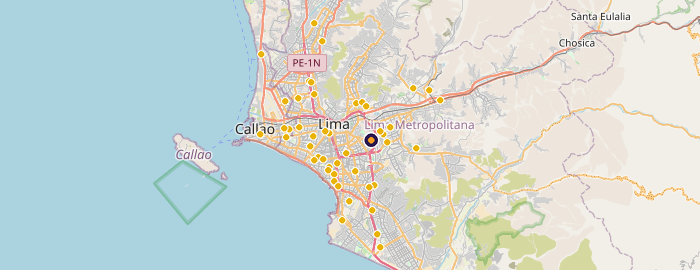
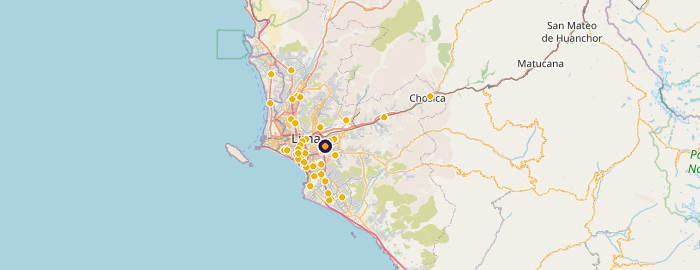
chore: actualizar reporte HTML y mapas del Dashboard

diff --git a/reports/dashboard_email.html b/reports/dashboard_email.html
@@ -15,7 +15,7 @@
                   <td>
                     <div style="font-size:11px; letter-spacing:1px; text-transform:uppercase; color:#f89b22; font-weight:700;">RoadMap &bull; Dashboard Operativo</div>
                     <h1 style="margin:4px 0 2px; font-size:22px; color:#ffffff;">Resumen Diario de Distribución &ndash; Región Lima</h1>
-                    <div style="font-size:12px; color:#d4d4d8;">Fecha operativa: <b>24/11/2026</b> &bull; Consolidado Global y Despliegue por CD</div>
+                    <div style="font-size:12px; color:#d4d4d8;">Fecha operativa: <b>25/11/2026</b> &bull; Consolidado Global y Despliegue por CD</div>
                   </td>
                   <td align="right" valign="middle">
                     <a href="https://sigmaperu.github.io/RoadMap/dashboard.html" style="background-color:#c61c27; color:#ffffff; text-decoration:none; padding:10px 16px; border-radius:8px; font-size:12px; font-weight:700; display:inline-block;">Abrir Dashboard</a>
@@ -34,25 +34,25 @@
                 <tr>
                   <td width="24%" style="background:#faf9fc; border:1px solid #e4e4e7; border-top:3px solid #28174E; border-radius:8px; padding:10px;">
                     <div style="font-size:10.5px; color:#71717a; font-weight:700;">TONELAJE TOTAL</div>
-                    <div style="font-size:19px; font-weight:800; color:#18181b;">64.43 T</div>
-                    <div style="font-size:11px; color:#52525b;">64,433 kg planificados</div>
+                    <div style="font-size:19px; font-weight:800; color:#18181b;">81.08 T</div>
+                    <div style="font-size:11px; color:#52525b;">81,078 kg planificados</div>
                   </td>
                   <td width="1.3%"></td>
                   <td width="24%" style="background:#faf9fc; border:1px solid #e4e4e7; border-top:3px solid #c61c27; border-radius:8px; padding:10px;">
                     <div style="font-size:10.5px; color:#71717a; font-weight:700;">VALORIZACIÓN</div>
-                    <div style="font-size:19px; font-weight:800; color:#c61c27;">S/ 1,563,304</div>
-                    <div style="font-size:11px; color:#52525b;">Ticket Prom: S/ 1,247</div>
+                    <div style="font-size:19px; font-weight:800; color:#c61c27;">S/ 1,998,947</div>
+                    <div style="font-size:11px; color:#52525b;">Ticket Prom: S/ 1,321</div>
                   </td>
                   <td width="1.3%"></td>
                   <td width="24%" style="background:#faf9fc; border:1px solid #e4e4e7; border-top:3px solid #f89b22; border-radius:8px; padding:10px;">
                     <div style="font-size:10.5px; color:#71717a; font-weight:700;">COBERTURA</div>
-                    <div style="font-size:19px; font-weight:800; color:#18181b;">1254 cli.</div>
-                    <div style="font-size:11px; color:#52525b;">1540 pedidos totales</div>
+                    <div style="font-size:19px; font-weight:800; color:#18181b;">1513 cli.</div>
+                    <div style="font-size:11px; color:#52525b;">1845 pedidos totales</div>
                   </td>
                   <td width="1.3%"></td>
                   <td width="24%" style="background:#faf9fc; border:1px solid #e4e4e7; border-top:3px solid #8e24aa; border-radius:8px; padding:10px;">
                     <div style="font-size:10.5px; color:#71717a; font-weight:700;">FLOTA ACTIVA</div>
-                    <div style="font-size:19px; font-weight:800; color:#6a1b9a;">51 placas</div>
+                    <div style="font-size:19px; font-weight:800; color:#6a1b9a;">55 placas</div>
                     <div style="font-size:11px; color:#52525b;">Excluye FRT-001 / RES-CLI</div>
                   </td>
                 </tr>
@@ -62,17 +62,17 @@
                 <tr>
                   <td width="32.5%" style="background:#f3e5f5; border-radius:8px; padding:8px 12px;">
                     <span style="font-size:10.5px; color:#6a1b9a; font-weight:700;">DROP SIZE GLOBAL:</span>
-                    <b style="font-size:14px; color:#28174E; margin-left:4px;">51.4 kg/cli</b>
+                    <b style="font-size:14px; color:#28174E; margin-left:4px;">53.6 kg/cli</b>
                   </td>
                   <td width="1.2%"></td>
                   <td width="32.5%" style="background:#fff7ed; border-radius:8px; padding:8px 12px;">
                     <span style="font-size:10.5px; color:#c2410c; font-weight:700;">CARGA PROM. / PLACA:</span>
-                    <b style="font-size:14px; color:#9a3412; margin-left:4px;">1,263 kg</b>
+                    <b style="font-size:14px; color:#9a3412; margin-left:4px;">1,474 kg</b>
                   </td>
                   <td width="1.2%"></td>
                   <td width="32.5%" style="background:#eff6ff; border-radius:8px; padding:8px 12px;">
                     <span style="font-size:10.5px; color:#1d4ed8; font-weight:700;">PARADAS / PLACA:</span>
-                    <b style="font-size:14px; color:#1e3a8a; margin-left:4px;">24.6 cli/u</b>
+                    <b style="font-size:14px; color:#1e3a8a; margin-left:4px;">27.5 cli/u</b>
                   </td>
                 </tr>
               </table>
@@ -97,35 +97,35 @@
                 
           <tr>
             <td style="padding:8px 10px; border-bottom:1px solid #eceaf2; font-weight:800; color:#28174E;">0374-ATE</td>
-            <td style="padding:8px 10px; border-bottom:1px solid #eceaf2; text-align:right; font-weight:700;">24.13 T <span style="color:#71717a; font-weight:400; font-size:11px;">(37%)</span></td>
-            <td style="padding:8px 10px; border-bottom:1px solid #eceaf2; text-align:right;">S/ 620,366</td>
-            <td style="padding:8px 10px; border-bottom:1px solid #eceaf2; text-align:right;">54</td>
-            <td style="padding:8px 10px; border-bottom:1px solid #eceaf2; text-align:right; font-weight:700;">8</td>
-            <td style="padding:8px 10px; border-bottom:1px solid #eceaf2; text-align:right; color:#6a1b9a; font-weight:700;">446.9 kg</td>
-            <td style="padding:8px 10px; border-bottom:1px solid #eceaf2; text-align:right;">6.8</td>
-            <td style="padding:8px 10px; border-bottom:1px solid #eceaf2; text-align:right;">3,016 kg</td>
+            <td style="padding:8px 10px; border-bottom:1px solid #eceaf2; text-align:right; font-weight:700;">21.25 T <span style="color:#71717a; font-weight:400; font-size:11px;">(26%)</span></td>
+            <td style="padding:8px 10px; border-bottom:1px solid #eceaf2; text-align:right;">S/ 572,997</td>
+            <td style="padding:8px 10px; border-bottom:1px solid #eceaf2; text-align:right;">57</td>
+            <td style="padding:8px 10px; border-bottom:1px solid #eceaf2; text-align:right; font-weight:700;">9</td>
+            <td style="padding:8px 10px; border-bottom:1px solid #eceaf2; text-align:right; color:#6a1b9a; font-weight:700;">372.8 kg</td>
+            <td style="padding:8px 10px; border-bottom:1px solid #eceaf2; text-align:right;">6.3</td>
+            <td style="padding:8px 10px; border-bottom:1px solid #eceaf2; text-align:right;">2,361 kg</td>
           </tr>
         
           <tr>
             <td style="padding:8px 10px; border-bottom:1px solid #eceaf2; font-weight:800; color:#28174E;">0780-ATE2</td>
-            <td style="padding:8px 10px; border-bottom:1px solid #eceaf2; text-align:right; font-weight:700;">33.43 T <span style="color:#71717a; font-weight:400; font-size:11px;">(52%)</span></td>
-            <td style="padding:8px 10px; border-bottom:1px solid #eceaf2; text-align:right;">S/ 776,553</td>
-            <td style="padding:8px 10px; border-bottom:1px solid #eceaf2; text-align:right;">1143</td>
-            <td style="padding:8px 10px; border-bottom:1px solid #eceaf2; text-align:right; font-weight:700;">39</td>
-            <td style="padding:8px 10px; border-bottom:1px solid #eceaf2; text-align:right; color:#6a1b9a; font-weight:700;">29.3 kg</td>
-            <td style="padding:8px 10px; border-bottom:1px solid #eceaf2; text-align:right;">29.3</td>
-            <td style="padding:8px 10px; border-bottom:1px solid #eceaf2; text-align:right;">857 kg</td>
+            <td style="padding:8px 10px; border-bottom:1px solid #eceaf2; text-align:right; font-weight:700;">50.07 T <span style="color:#71717a; font-weight:400; font-size:11px;">(62%)</span></td>
+            <td style="padding:8px 10px; border-bottom:1px solid #eceaf2; text-align:right;">S/ 1,189,262</td>
+            <td style="padding:8px 10px; border-bottom:1px solid #eceaf2; text-align:right;">1408</td>
+            <td style="padding:8px 10px; border-bottom:1px solid #eceaf2; text-align:right; font-weight:700;">42</td>
+            <td style="padding:8px 10px; border-bottom:1px solid #eceaf2; text-align:right; color:#6a1b9a; font-weight:700;">35.6 kg</td>
+            <td style="padding:8px 10px; border-bottom:1px solid #eceaf2; text-align:right;">33.5</td>
+            <td style="padding:8px 10px; border-bottom:1px solid #eceaf2; text-align:right;">1,192 kg</td>
           </tr>
         
           <tr>
             <td style="padding:8px 10px; border-bottom:1px solid #eceaf2; font-weight:800; color:#28174E;">0754-CHANCAY</td>
-            <td style="padding:8px 10px; border-bottom:1px solid #eceaf2; text-align:right; font-weight:700;">6.87 T <span style="color:#71717a; font-weight:400; font-size:11px;">(11%)</span></td>
-            <td style="padding:8px 10px; border-bottom:1px solid #eceaf2; text-align:right;">S/ 166,385</td>
-            <td style="padding:8px 10px; border-bottom:1px solid #eceaf2; text-align:right;">57</td>
-            <td style="padding:8px 10px; border-bottom:1px solid #eceaf2; text-align:right; font-weight:700;">5</td>
-            <td style="padding:8px 10px; border-bottom:1px solid #eceaf2; text-align:right; color:#6a1b9a; font-weight:700;">120.5 kg</td>
-            <td style="padding:8px 10px; border-bottom:1px solid #eceaf2; text-align:right;">11.4</td>
-            <td style="padding:8px 10px; border-bottom:1px solid #eceaf2; text-align:right;">1,373 kg</td>
+            <td style="padding:8px 10px; border-bottom:1px solid #eceaf2; text-align:right; font-weight:700;">9.76 T <span style="color:#71717a; font-weight:400; font-size:11px;">(12%)</span></td>
+            <td style="padding:8px 10px; border-bottom:1px solid #eceaf2; text-align:right;">S/ 236,688</td>
+            <td style="padding:8px 10px; border-bottom:1px solid #eceaf2; text-align:right;">48</td>
+            <td style="padding:8px 10px; border-bottom:1px solid #eceaf2; text-align:right; font-weight:700;">7</td>
+            <td style="padding:8px 10px; border-bottom:1px solid #eceaf2; text-align:right; color:#6a1b9a; font-weight:700;">203.3 kg</td>
+            <td style="padding:8px 10px; border-bottom:1px solid #eceaf2; text-align:right;">6.9</td>
+            <td style="padding:8px 10px; border-bottom:1px solid #eceaf2; text-align:right;">1,394 kg</td>
           </tr>
         
               </table>
@@ -148,7 +148,7 @@
                       <tr>
                         <td style="font-size:14px; font-weight:800; color:#ffffff;">&#128205; Centro 0374-ATE</td>
                         <td align="right" style="font-size:11px; color:#f89b22; font-weight:700;">
-                          8 Placas &bull; 54 Clientes &bull; 180 Pedidos
+                          9 Placas &bull; 57 Clientes &bull; 159 Pedidos
                         </td>
                       </tr>
                     </table>
@@ -161,20 +161,20 @@
                       <tr>
                         <td width="24%" style="background:#faf9fc; border:1px solid #eceaf2; border-radius:7px; padding:8px;">
                           <div style="font-size:10px; color:#71717a; font-weight:700;">TONELAJE</div>
-                          <div style="font-size:15px; font-weight:800; color:#18181b;">24.13 T</div>
-                          <div style="font-size:10px; color:#52525b;">S/ 620,366</div>
+                          <div style="font-size:15px; font-weight:800; color:#18181b;">21.25 T</div>
+                          <div style="font-size:10px; color:#52525b;">S/ 572,997</div>
                         </td>
                         <td width="1.3%"></td>
                         <td width="24%" style="background:#faf5ff; border:1px solid #e9d5ff; border-radius:7px; padding:8px;">
                           <div style="font-size:10px; color:#6b21a8; font-weight:700;">DROP SIZE</div>
-                          <div style="font-size:15px; font-weight:800; color:#6a1b9a;">446.9 kg/cli</div>
-                          <div style="font-size:10px; color:#581c87;">Ticket: S/ 11,488</div>
+                          <div style="font-size:15px; font-weight:800; color:#6a1b9a;">372.8 kg/cli</div>
+                          <div style="font-size:10px; color:#581c87;">Ticket: S/ 10,053</div>
                         </td>
                         <td width="1.3%"></td>
                         <td width="24%" style="background:#fff7ed; border:1px solid #fed7aa; border-radius:7px; padding:8px;">
                           <div style="font-size:10px; color:#9a3412; font-weight:700;">CARGA / PLACA</div>
-                          <div style="font-size:15px; font-weight:800; color:#c2410c;">3,016 kg</div>
-                          <div style="font-size:10px; color:#7c2d12;">6.8 cli/placa</div>
+                          <div style="font-size:15px; font-weight:800; color:#c2410c;">2,361 kg</div>
+                          <div style="font-size:10px; color:#7c2d12;">6.3 cli/placa</div>
                         </td>
                         <td width="1.3%"></td>
                         <td width="24%" style="background:#f8fafc; border:1px solid #e2e8f0; border-radius:7px; padding:8px;">
@@ -183,13 +183,13 @@
                             <span style="color:#ef4444;">&#9679;</span> DET:<b>0</b> &nbsp;
                             <span style="color:#2563eb;">&#9679;</span> FSE:<b>0</b><br>
                             <span style="color:#f97316;">&#9679;</span> MES:<b>0</b> &nbsp;
-                            <span style="color:#eab308;">&#9679;</span> MOD:<b>53</b>
+                            <span style="color:#eab308;">&#9679;</span> MOD:<b>56</b>
                           </div>
                         </td>
                       </tr>
                     </table>
                     <!-- Mapa del Centro -->
-                    <img src="https://sigmaperu.github.io/RoadMap/reports/map_0374-ATE.png?v=202611241439" width="684" alt="Mapa de clientes 0374-ATE" style="display:block; width:100%; border-radius:8px; border:1px solid #e4e4e7;" />
+                    <img src="https://sigmaperu.github.io/RoadMap/reports/map_0374-ATE.png?v=202611251047" width="684" alt="Mapa de clientes 0374-ATE" style="display:block; width:100%; border-radius:8px; border:1px solid #e4e4e7;" />
                     <div style="font-size:10.5px; color:#71717a; margin-top:5px; text-align:right;">
                       <b style="color:#28174E;">&#9673; Pin Morado/Naranja:</b> Geo CD 0374-ATE &nbsp;|&nbsp;
                       <span style="color:#ef4444;">&#9679;</span> DET &nbsp;
@@ -212,7 +212,7 @@
                       <tr>
                         <td style="font-size:14px; font-weight:800; color:#ffffff;">&#128205; Centro 0780-ATE2</td>
                         <td align="right" style="font-size:11px; color:#f89b22; font-weight:700;">
-                          39 Placas &bull; 1143 Clientes &bull; 1266 Pedidos
+                          42 Placas &bull; 1408 Clientes &bull; 1601 Pedidos
                         </td>
                       </tr>
                     </table>
@@ -225,35 +225,35 @@
                       <tr>
                         <td width="24%" style="background:#faf9fc; border:1px solid #eceaf2; border-radius:7px; padding:8px;">
                           <div style="font-size:10px; color:#71717a; font-weight:700;">TONELAJE</div>
-                          <div style="font-size:15px; font-weight:800; color:#18181b;">33.43 T</div>
-                          <div style="font-size:10px; color:#52525b;">S/ 776,553</div>
+                          <div style="font-size:15px; font-weight:800; color:#18181b;">50.07 T</div>
+                          <div style="font-size:10px; color:#52525b;">S/ 1,189,262</div>
                         </td>
                         <td width="1.3%"></td>
                         <td width="24%" style="background:#faf5ff; border:1px solid #e9d5ff; border-radius:7px; padding:8px;">
                           <div style="font-size:10px; color:#6b21a8; font-weight:700;">DROP SIZE</div>
-                          <div style="font-size:15px; font-weight:800; color:#6a1b9a;">29.3 kg/cli</div>
-                          <div style="font-size:10px; color:#581c87;">Ticket: S/ 679</div>
+                          <div style="font-size:15px; font-weight:800; color:#6a1b9a;">35.6 kg/cli</div>
+                          <div style="font-size:10px; color:#581c87;">Ticket: S/ 845</div>
                         </td>
                         <td width="1.3%"></td>
                         <td width="24%" style="background:#fff7ed; border:1px solid #fed7aa; border-radius:7px; padding:8px;">
                           <div style="font-size:10px; color:#9a3412; font-weight:700;">CARGA / PLACA</div>
-                          <div style="font-size:15px; font-weight:800; color:#c2410c;">857 kg</div>
-                          <div style="font-size:10px; color:#7c2d12;">29.3 cli/placa</div>
+                          <div style="font-size:15px; font-weight:800; color:#c2410c;">1,192 kg</div>
+                          <div style="font-size:10px; color:#7c2d12;">33.5 cli/placa</div>
                         </td>
                         <td width="1.3%"></td>
                         <td width="24%" style="background:#f8fafc; border:1px solid #e2e8f0; border-radius:7px; padding:8px;">
                           <div style="font-size:10px; color:#475569; font-weight:700;">MIX CLIENTES</div>
                           <div style="font-size:10.5px; color:#18181b; line-height:1.4; margin-top:2px;">
-                            <span style="color:#ef4444;">&#9679;</span> DET:<b>586</b> &nbsp;
-                            <span style="color:#2563eb;">&#9679;</span> FSE:<b>458</b><br>
-                            <span style="color:#f97316;">&#9679;</span> MES:<b>95</b> &nbsp;
-                            <span style="color:#eab308;">&#9679;</span> MOD:<b>3</b>
+                            <span style="color:#ef4444;">&#9679;</span> DET:<b>802</b> &nbsp;
+                            <span style="color:#2563eb;">&#9679;</span> FSE:<b>480</b><br>
+                            <span style="color:#f97316;">&#9679;</span> MES:<b>100</b> &nbsp;
+                            <span style="color:#eab308;">&#9679;</span> MOD:<b>25</b>
                           </div>
                         </td>
                       </tr>
                     </table>
                     <!-- Mapa del Centro -->
-                    <img src="https://sigmaperu.github.io/RoadMap/reports/map_0780-ATE2.png?v=202611241439" width="684" alt="Mapa de clientes 0780-ATE2" style="display:block; width:100%; border-radius:8px; border:1px solid #e4e4e7;" />
+                    <img src="https://sigmaperu.github.io/RoadMap/reports/map_0780-ATE2.png?v=202611251047" width="684" alt="Mapa de clientes 0780-ATE2" style="display:block; width:100%; border-radius:8px; border:1px solid #e4e4e7;" />
                     <div style="font-size:10.5px; color:#71717a; margin-top:5px; text-align:right;">
                       <b style="color:#28174E;">&#9673; Pin Morado/Naranja:</b> Geo CD 0780-ATE2 &nbsp;|&nbsp;
                       <span style="color:#ef4444;">&#9679;</span> DET &nbsp;
@@ -276,7 +276,7 @@
                       <tr>
                         <td style="font-size:14px; font-weight:800; color:#ffffff;">&#128205; Centro 0754-CHANCAY</td>
                         <td align="right" style="font-size:11px; color:#f89b22; font-weight:700;">
-                          5 Placas &bull; 57 Clientes &bull; 94 Pedidos
+                          7 Placas &bull; 48 Clientes &bull; 85 Pedidos
                         </td>
                       </tr>
                     </table>
@@ -289,35 +289,35 @@
                       <tr>
                         <td width="24%" style="background:#faf9fc; border:1px solid #eceaf2; border-radius:7px; padding:8px;">
                           <div style="font-size:10px; color:#71717a; font-weight:700;">TONELAJE</div>
-                          <div style="font-size:15px; font-weight:800; color:#18181b;">6.87 T</div>
-                          <div style="font-size:10px; color:#52525b;">S/ 166,385</div>
+                          <div style="font-size:15px; font-weight:800; color:#18181b;">9.76 T</div>
+                          <div style="font-size:10px; color:#52525b;">S/ 236,688</div>
                         </td>
                         <td width="1.3%"></td>
                         <td width="24%" style="background:#faf5ff; border:1px solid #e9d5ff; border-radius:7px; padding:8px;">
                           <div style="font-size:10px; color:#6b21a8; font-weight:700;">DROP SIZE</div>
-                          <div style="font-size:15px; font-weight:800; color:#6a1b9a;">120.5 kg/cli</div>
-                          <div style="font-size:10px; color:#581c87;">Ticket: S/ 2,919</div>
+                          <div style="font-size:15px; font-weight:800; color:#6a1b9a;">203.3 kg/cli</div>
+                          <div style="font-size:10px; color:#581c87;">Ticket: S/ 4,931</div>
                         </td>
                         <td width="1.3%"></td>
                         <td width="24%" style="background:#fff7ed; border:1px solid #fed7aa; border-radius:7px; padding:8px;">
                           <div style="font-size:10px; color:#9a3412; font-weight:700;">CARGA / PLACA</div>
-                          <div style="font-size:15px; font-weight:800; color:#c2410c;">1,373 kg</div>
-                          <div style="font-size:10px; color:#7c2d12;">11.4 cli/placa</div>
+                          <div style="font-size:15px; font-weight:800; color:#c2410c;">1,394 kg</div>
+                          <div style="font-size:10px; color:#7c2d12;">6.9 cli/placa</div>
                         </td>
                         <td width="1.3%"></td>
                         <td width="24%" style="background:#f8fafc; border:1px solid #e2e8f0; border-radius:7px; padding:8px;">
                           <div style="font-size:10px; color:#475569; font-weight:700;">MIX CLIENTES</div>
                           <div style="font-size:10.5px; color:#18181b; line-height:1.4; margin-top:2px;">
-                            <span style="color:#ef4444;">&#9679;</span> DET:<b>48</b> &nbsp;
-                            <span style="color:#2563eb;">&#9679;</span> FSE:<b>5</b><br>
-                            <span style="color:#f97316;">&#9679;</span> MES:<b>0</b> &nbsp;
-                            <span style="color:#eab308;">&#9679;</span> MOD:<b>4</b>
+                            <span style="color:#ef4444;">&#9679;</span> DET:<b>0</b> &nbsp;
+                            <span style="color:#2563eb;">&#9679;</span> FSE:<b>17</b><br>
+                            <span style="color:#f97316;">&#9679;</span> MES:<b>22</b> &nbsp;
+                            <span style="color:#eab308;">&#9679;</span> MOD:<b>9</b>
                           </div>
                         </td>
                       </tr>
                     </table>
                     <!-- Mapa del Centro -->
-                    <img src="https://sigmaperu.github.io/RoadMap/reports/map_0754-CHANCAY.png?v=202611241439" width="684" alt="Mapa de clientes 0754-CHANCAY" style="display:block; width:100%; border-radius:8px; border:1px solid #e4e4e7;" />
+                    <img src="https://sigmaperu.github.io/RoadMap/reports/map_0754-CHANCAY.png?v=202611251047" width="684" alt="Mapa de clientes 0754-CHANCAY" style="display:block; width:100%; border-radius:8px; border:1px solid #e4e4e7;" />
                     <div style="font-size:10.5px; color:#71717a; margin-top:5px; text-align:right;">
                       <b style="color:#28174E;">&#9673; Pin Morado/Naranja:</b> Geo CD 0754-CHANCAY &nbsp;|&nbsp;
                       <span style="color:#ef4444;">&#9679;</span> DET &nbsp;
